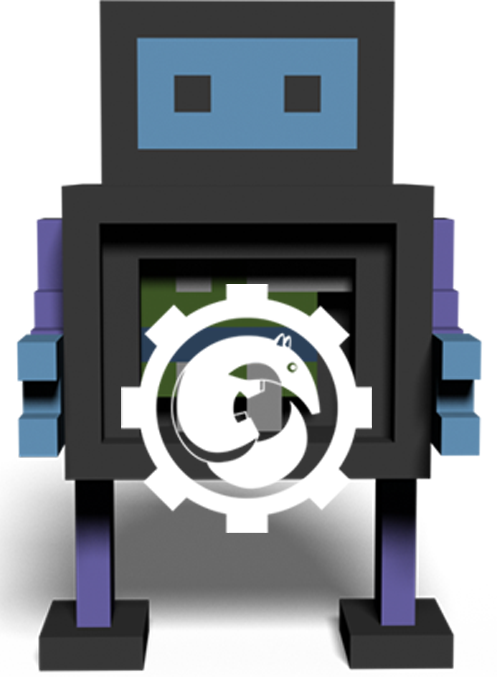
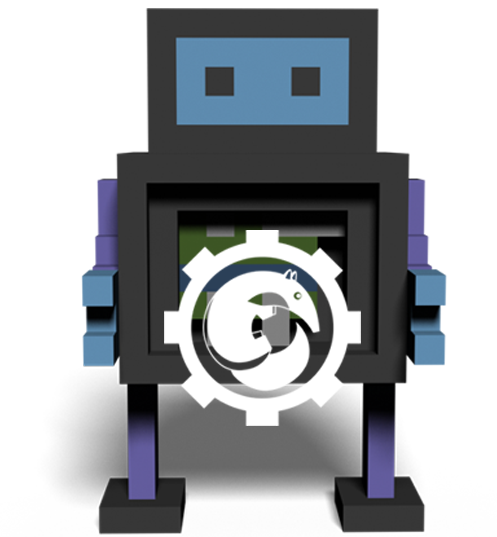
fixed resources, added mini robo

diff --git a/app/client/stylesheets/_home.scss b/app/client/stylesheets/_home.scss
@@ -379,8 +379,16 @@
   /* Sponsors */
   #sponsors {
     padding: 3% 5% 5%;
-    // background: #e7e7e7;
-  }
+    display: flex;
+    flex-direction: column;
+    margin-top: -140px;
+
+      .sponsor-mini-robo {
+        height: 200px;
+        width: 300px;
+        margin-right: 60%;
+      }
+    }
 
   #sponsors-content {
     width: 100%;
@@ -483,7 +491,7 @@
 
         .hero-logo-mobile {
           width: 180px !important;
-          height: 240px !important;
+          height: 200px !important;
           margin-bottom: 40px;
           display: block;
         }
@@ -582,6 +590,11 @@
 
     #sponsors {
       padding: 12.5% 0 5% 0;
+      margin-top: 0;
+
+      .sponsor-mini-robo {
+        display: none;
+      }
     }
 
     #sponsors-list {
@@ -680,6 +693,15 @@
       #previous-winners-trophy img {
         width: 300px !important;
         height: 420px !important;
+      }
+    }
+
+    #sponsors {
+      margin-top: 0;
+
+      .sponsor-mini-robo {
+        height: 160px;
+        width: 220px;
       }
     }
     

diff --git a/app/client/views/home/home.html b/app/client/views/home/home.html
@@ -385,6 +385,7 @@
   </section>
 
   <section id="sponsors" class="center">
+    <img src="assets/images/mini-robo.png" alt="mini-robo" class="sponsor-mini-robo">
     <div id="sponsors-content">
       <div class="title">Partners</div>
       <div id="sponsors-list" class="ui grid box-shadow">
